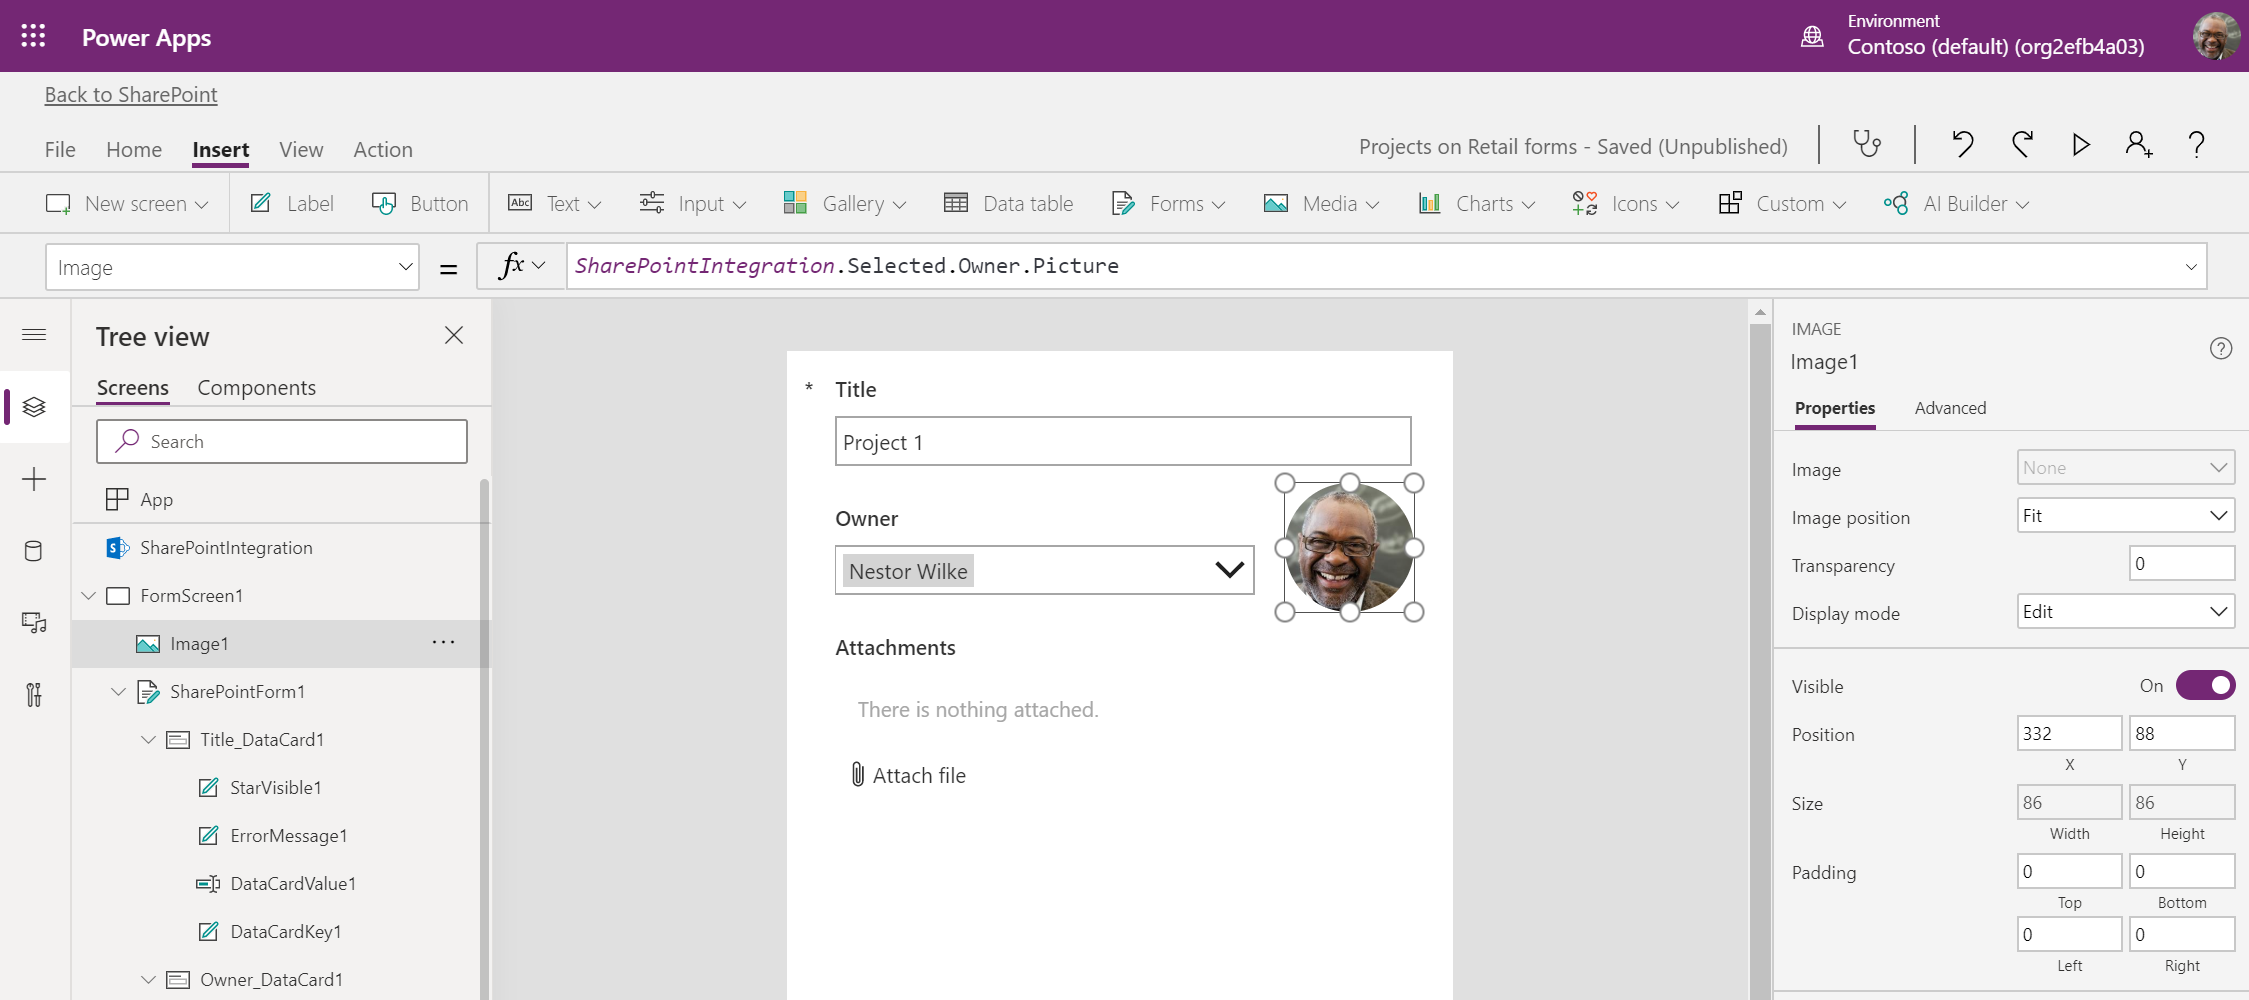
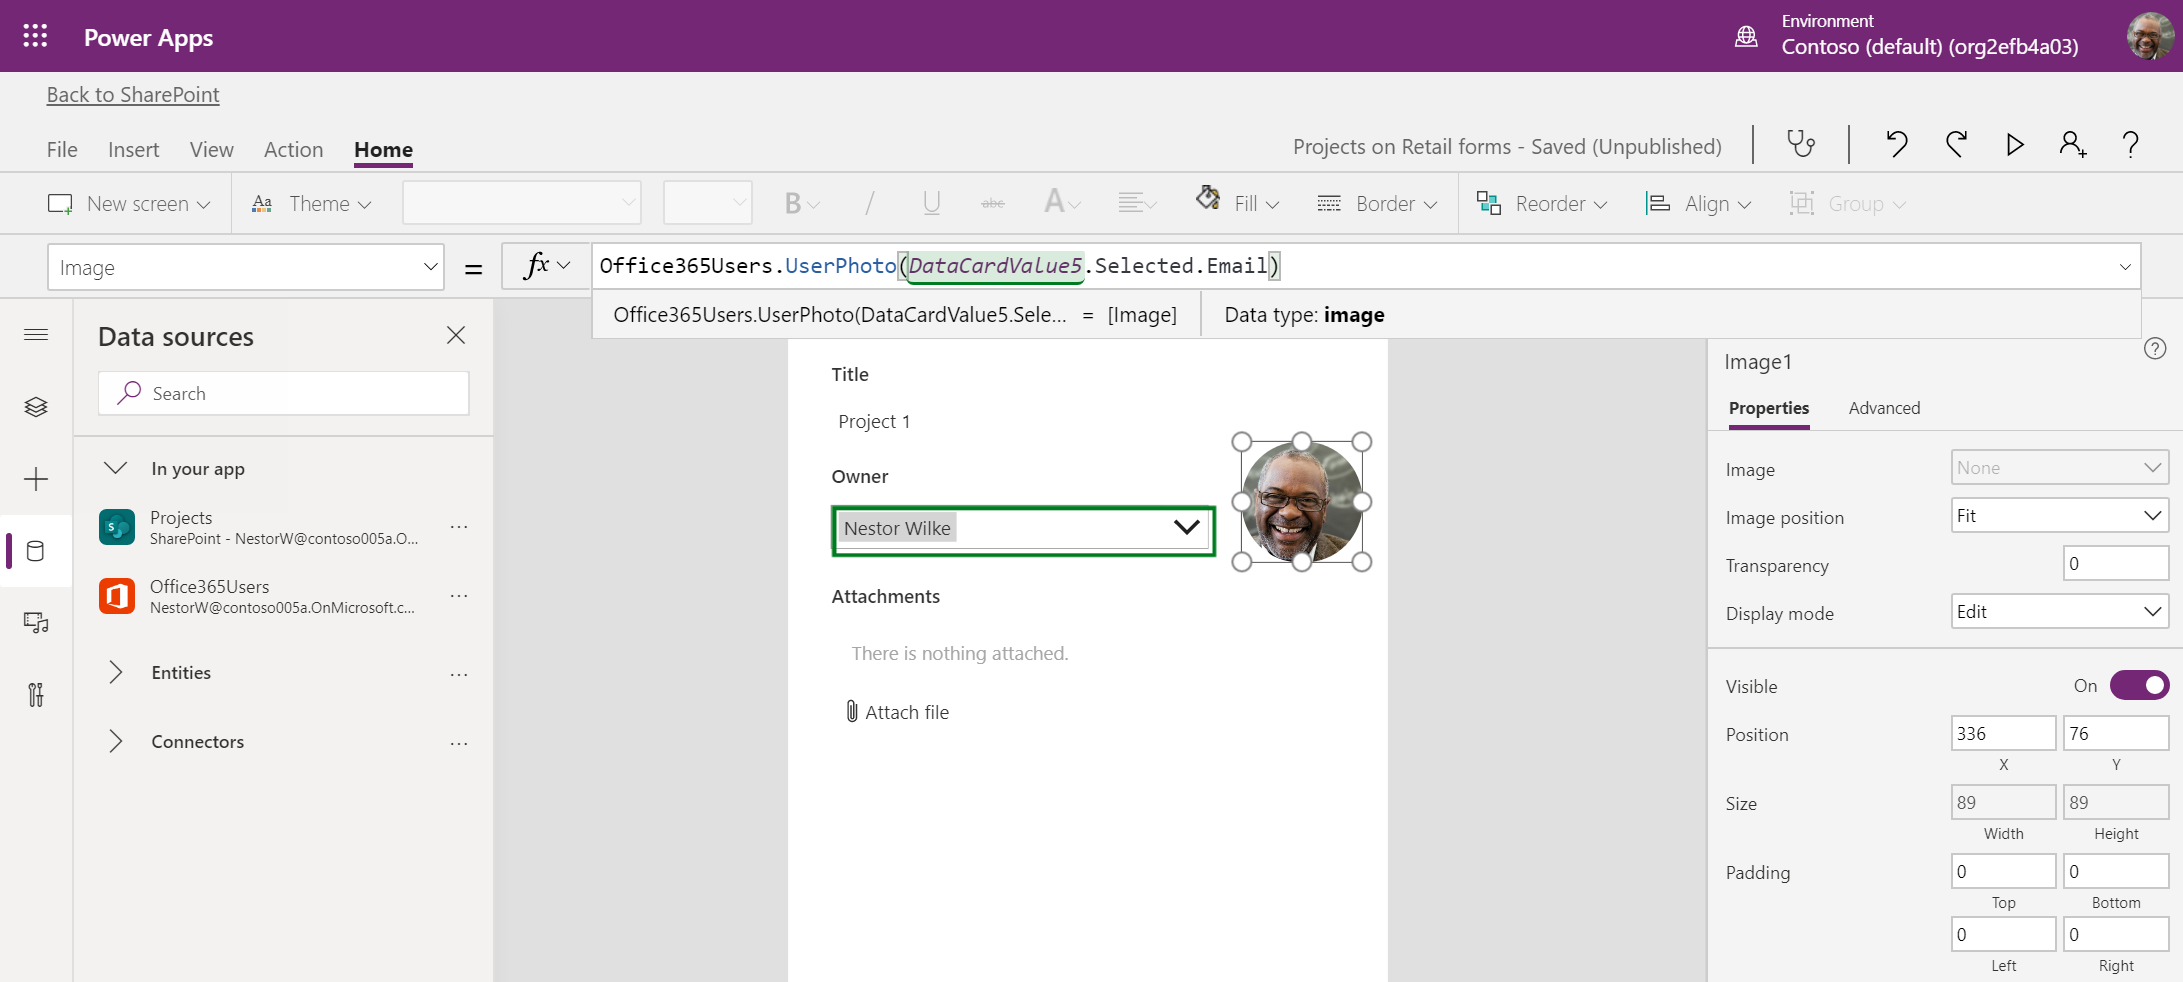
Updates to make custom form refresh upon toggling owner

diff --git a/docs/business-apps/power-apps/get-started/create-your-first-custom-form.md b/docs/business-apps/power-apps/get-started/create-your-first-custom-form.md
@@ -60,9 +60,13 @@ Before starting, make sure your SharePoint site is set up with the [required lis
 
     ![Set image border radius](../../../images/gs01-set-image-border-radius.png)
 
-1. To change the image of **Image1** from the sample image to the owner's profile photo, make sure you select **Image1**. In the formula bar, change the property to **Image**, and enter `SharePointIntegration.Selected.Owner.Picture` as the formula. The user photo from the owner's Microsoft 365 user profile appears in **Image1**.
+1. To change the image of **Image1** from the sample image to the project owner's profile photo, you can use the Office 365 Users connector to retrieve the photo by the owner's email. First, [connect your custom form to the Office 385 Users connector](https://docs.microsoft.com/powerapps/maker/canvas-apps/connections/connection-office365-users).
+
+1. In the formula bar, change the property to **Image**, and enter `Office365Users.UserPhoto(DataCardValue5.Selected.Email)` as the formula. The user photo from the owner's Microsoft 365 user profile appears in **Image1**.
 
     ![Set image picture](../../../images/gs01-set-image-picture.png)
+
+    When you change the project owner, **Image1** will update to the user photo of the new owner.
 
 ### Set a field to be view-only
 
@@ -106,11 +110,11 @@ To hide the **Attachments** field if the project owner is Nestor Wilke, follow t
 
     ![Select visible field](../../../images/gs01-attachments-property-visible.png)
 
-1. In the formula bar, enter the following formula: `If(SharePointIntegration.Selected.Owner.DisplayName = "Nestor Wilke", false)`
+1. In the formula bar, enter the following formula: `If(SharePointIntegration.Selected.Owner.DisplayName = "Nestor Wilke", false, true)`
 
     ![View-only title](../../../images/gs01-attachments-conditional-visibility.png)
     
-    The **Attachments** data card is now hidden if the project owner is Nestor Wilke.
+    The **Attachments** data card is now hidden if the project owner is Nestor Wilke. Otherwise, it is visible.
 
     You can write the same conditional logic in multiple ways. For more info, see [Operators and Identifiers in Power Apps](https://docs.microsoft.com/powerapps/maker/canvas-apps/functions/operators).
 
@@ -136,4 +140,4 @@ To hide the **Attachments** field if the project owner is Nestor Wilke, follow t
 
 Congratulations on creating your custom form.
 
-In the next topic, we will build on top of this custom form so that the user profile photo and the visibility of the **Attachments** data card automatically update when the owner is changed.
+In the next topic, we will create a standalone app using data from a SharePoint list.
